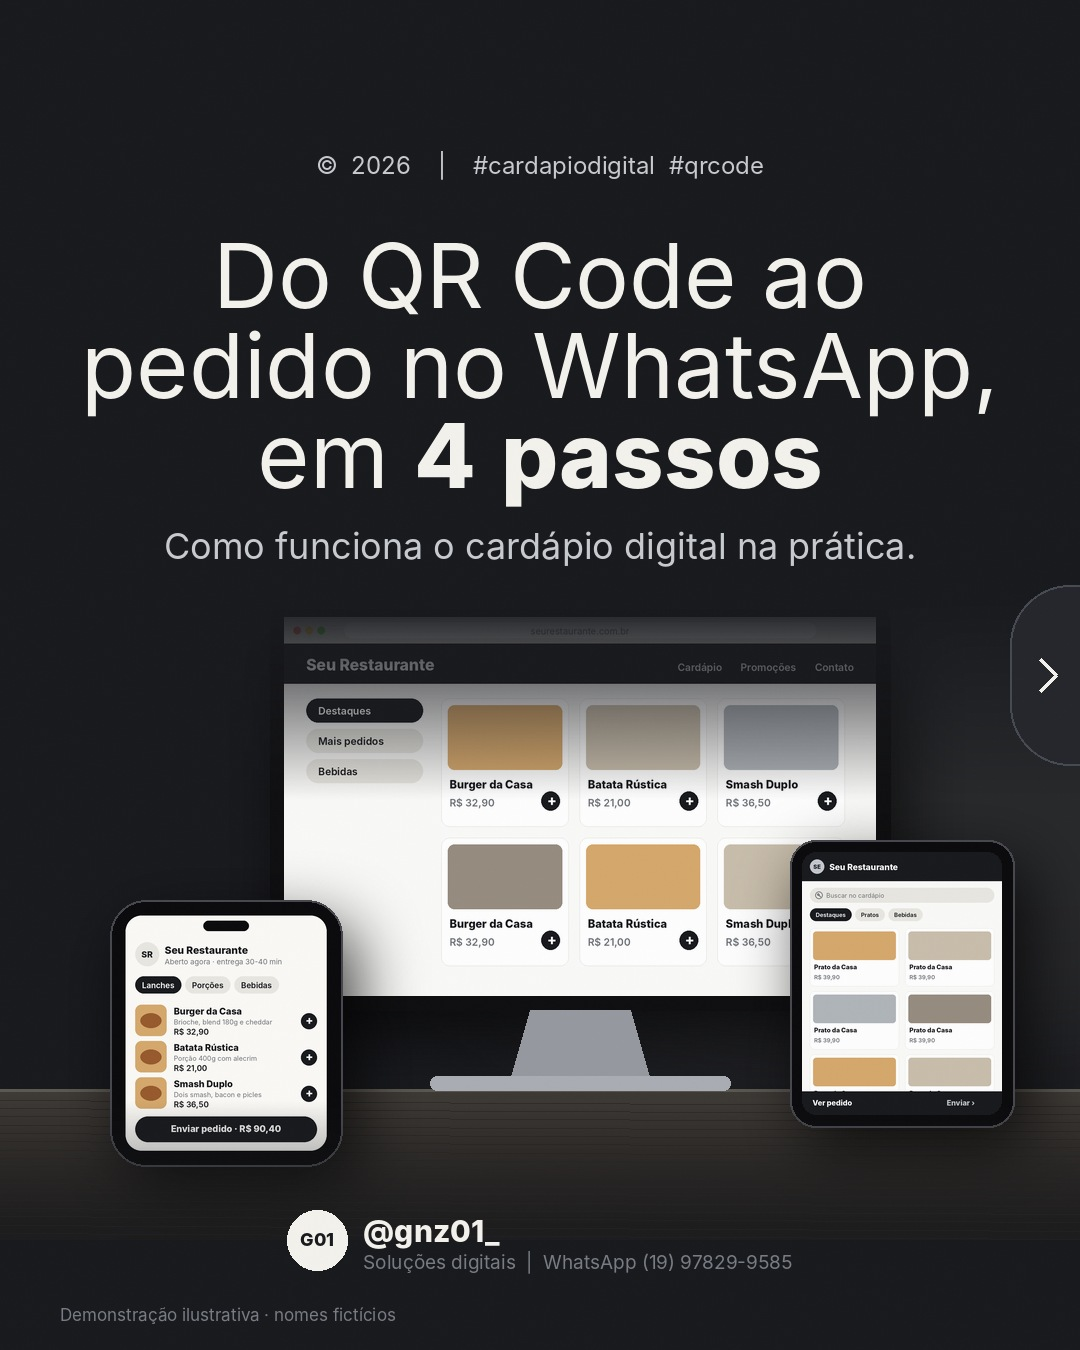
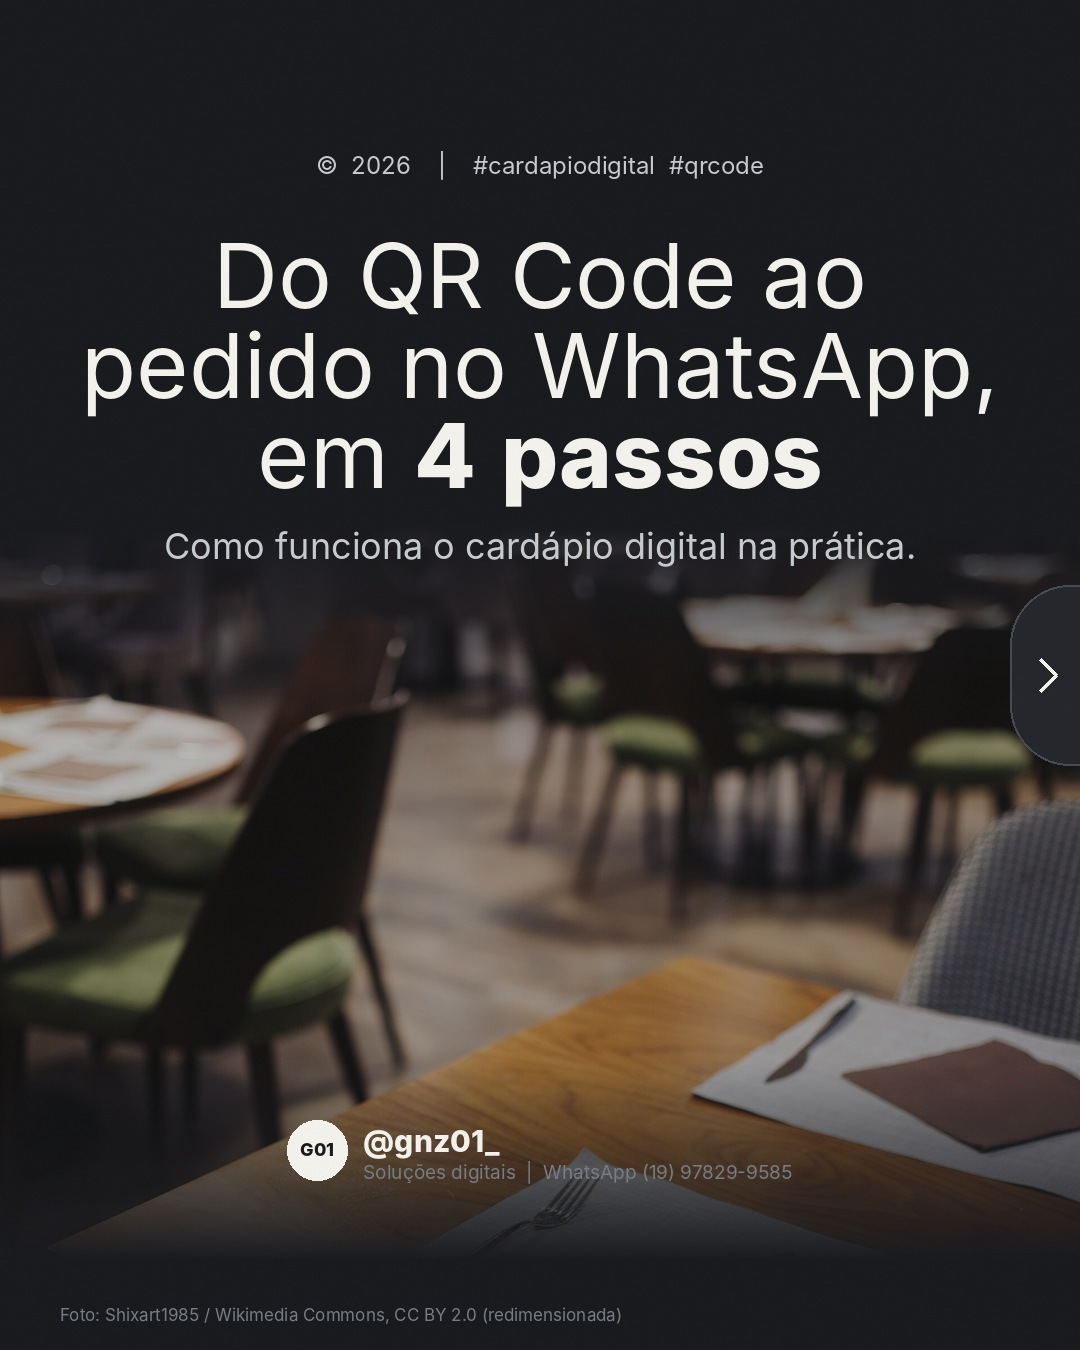
Capas dos carrosséis com fotos licenciadas de cenário
Claude-Session: https://claude.ai/code/session_01RYafPmAtYGRpHg7RarMXCA

diff --git a/src/sistema.py b/src/sistema.py
@@ -203,12 +203,23 @@ def capa(p, cfg, destino, foto=None, credito=None):
         else:
             ft = ImageOps.fit(Image.open(foto).convert("RGB"), (W, H - 360), Image.LANCZOS, centering=(0.5, 0.25))
             ft = Image.blend(ft, Image.new("RGB", ft.size, (10, 10, 12)), 0.25)
-        topo_f = 360 if cena is None else H - 640 - 110
+        # mede o bloco de título + subtítulo para a foto começar logo abaixo dele
+        dm = ImageDraw.Draw(Image.new("RGB", (W, 10)))
+        tt = p.get("titulo_capa") or p["titulo"]
+        aa = 0 if "**" in tt else 2
+        t0 = _cabe(dm, tt, W - 160, 112, 56, 300 if p.get("subtitulo") else 340, auto=aa, entre=1.0)
+        fim_txt = 220 + misto(dm, tt, 0, 0, W - 160, t0, auto=aa, entre=1.0, medir=True)
+        if p.get("subtitulo"):
+            fim_txt += 34 + misto(dm, p["subtitulo"], 0, 0, W - 160, 36, medir=True)
+        topo_f = max(360, int(fim_txt) - 40) if cena is None else max(H - 640 - 110, int(fim_txt) - 20)
+        if cena is None:
+            ft = ImageOps.fit(Image.open(foto).convert("RGB"), (W, H - topo_f), Image.LANCZOS, centering=(0.5, 0.35))
+            ft = Image.blend(ft, Image.new("RGB", ft.size, (10, 10, 12)), 0.25)
         img.paste(ft, (0, topo_f))
         fim = 1060 if cena is None else H - 250
         g = Image.new("L", (1, H))
         for y in range(H):
-            t = max(1 - (y - topo_f) / 200 if y >= topo_f else 1, (y - fim) / 200, 0)
+            t = max(1 - (y - topo_f) / 160 if y >= topo_f else 1, (y - fim) / 200, 0)
             g.putpixel((0, y), int(255 * min(1, t)))
         img = Image.composite(Image.new("RGB", (W, H), FUNDO), img, g.resize((W, H)))
     d = ImageDraw.Draw(img)
